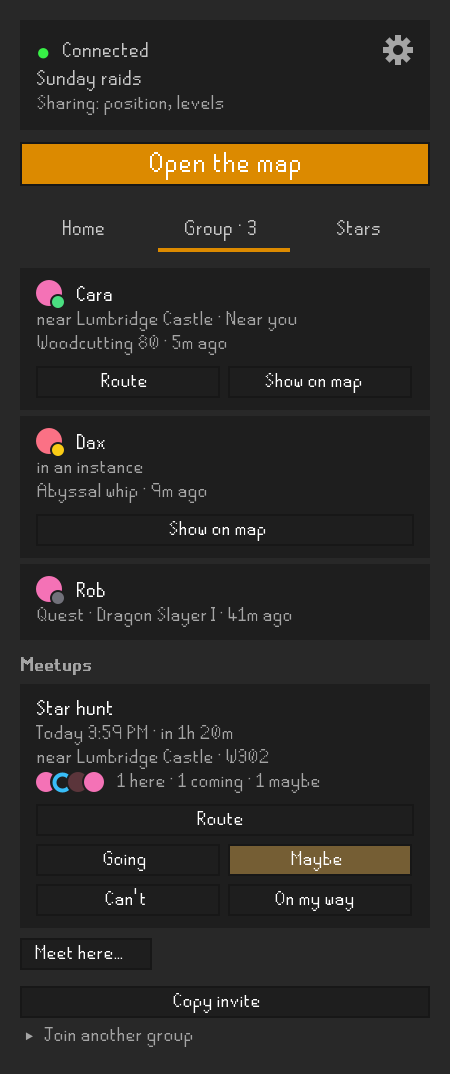
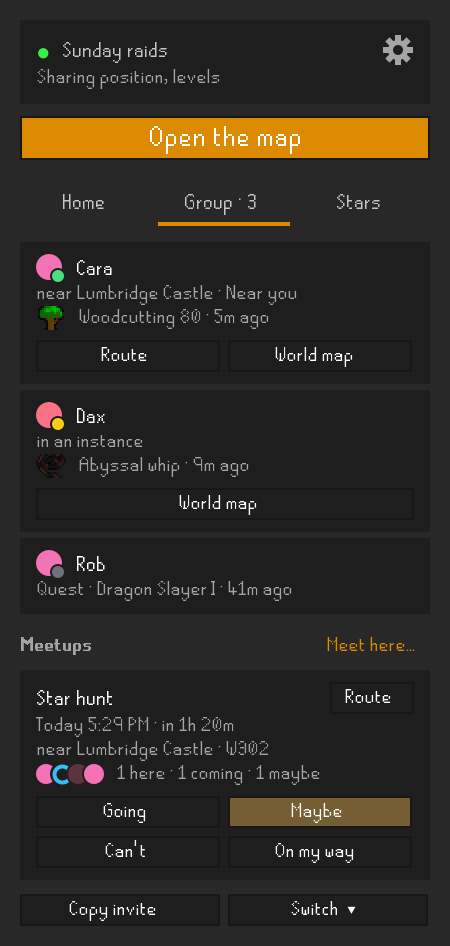
Draw a friend's news with the picture it names
A friend's news line said "Woodcutting 80" or "Abyssal whip" in grey words alone, while the
website's friend rows draw the skill's icon or the item's sprite beside the same words. The map
already sends both: a level names its skill, and a drop or reward the game identified names its
item. The plugin read the skill and dropped the item.

It now keeps the item's id and draws the item's sprite from ItemManager, or the skill's small icon
from SkillIconManager, at 16px beside the line. A quest or a diary names neither and stays words.
Nothing new is sent, and nothing is loaded from the map's server.

The wire contract test held a list's fields as set when any element set them, but only one level
down: a friend's news was judged by the first friend's alone, whose level has no item. It now
applies the same rule at every depth, which is what its own docblock promised.

diff --git a/src/main/java/com/pbolduc/mapcompanion/GroupPanel.java b/src/main/java/com/pbolduc/mapcompanion/GroupPanel.java
@@ -92,12 +92,15 @@ final class GroupPanel extends JPanel
 	private static final Color CHOSEN = new Color(117, 94, 52);
 	/** A friend's button for the game's own world map; "Show on world map" does not fit beside Route. */
 	static final String WORLD_MAP = "World map";
+	/** A news line's picture: the game's 16px skill icons, and an item's sprite shrunk to match. */
+	private static final int NEWS_PICTURE = 16;
 
 	private final transient DestinationState destinations;
 	private final transient GroupState group;
 	private final transient RoutePress press;
 	private final transient MeetupClient meetups;
 	private final transient MapCompanionConfig config;
+	private final transient GameSprites sprites;
 
 	private final JPanel friends = MapCompanionPanel.column(ColorScheme.DARK_GRAY_COLOR);
 	private final JLabel meetupsHead = MapCompanionPanel.left(new JLabel("Meetups"));
@@ -119,13 +122,14 @@ final class GroupPanel extends JPanel
 	private boolean ready;
 
 	GroupPanel(DestinationState destinations, GroupState group, RoutePress press, MeetupClient meetups,
-		MapCompanionConfig config)
+		MapCompanionConfig config, GameSprites sprites)
 	{
 		this.destinations = destinations;
 		this.group = group;
 		this.press = press;
 		this.meetups = meetups;
 		this.config = config;
+		this.sprites = sprites;
 		setLayout(new javax.swing.BoxLayout(this, javax.swing.BoxLayout.Y_AXIS));
 		setBackground(ColorScheme.DARK_GRAY_COLOR);
 		MapCompanionPanel.left(this);
@@ -394,7 +398,23 @@ final class GroupPanel extends JPanel
 		if (row.news != null)
 		{
 			JLabel news = label(11f, ColorScheme.LIGHT_GRAY_COLOR);
-			MapCompanionPanel.setWrapped(news, row.news.title + " · " + ago(now - row.news.atMs), WIDTH);
+			news.setName("group.news." + row.id);
+			/*
+			 * The news's own picture, as the website's friend rows draw it: the item a drop or reward
+			 * names, else the skill a level names. A quest or a diary has neither and stays words.
+			 */
+			boolean pictured = row.news.itemId != null || row.news.skill != null;
+			MapCompanionPanel.setWrapped(news, row.news.title + " · " + ago(now - row.news.atMs),
+				pictured ? WIDTH - NEWS_PICTURE - 5 : WIDTH);
+			news.setIconTextGap(5);
+			if (row.news.itemId != null)
+			{
+				sprites.item(news, row.news.itemId, NEWS_PICTURE);
+			}
+			else if (row.news.skill != null)
+			{
+				sprites.skill(news, row.news.skill, NEWS_PICTURE);
+			}
 			card.add(MapCompanionPanel.left(news));
 		}
 		boolean positioned = row.routable || row.near != null;

diff --git a/src/test/java/com/pbolduc/mapcompanion/WireContractTest.java b/src/test/java/com/pbolduc/mapcompanion/WireContractTest.java
@@ -127,7 +127,9 @@ public class WireContractTest
 			assertEquals(Boolean.TRUE, cara.nearYou);
 			assertTrue(cara.routable);
 			assertEquals("Woodcutting 80", cara.news.title);
+			assertEquals("Woodcutting", cara.news.skill);
 			assertEquals("Abyssal whip", directive.roster.get(1).news.title);
+			assertEquals("a drop names its item, whose sprite the news line draws", Integer.valueOf(4151), directive.roster.get(1).news.itemId);
 			assertEquals("a friend who shares no position has no world and no landmark", null, directive.roster.get(2).near);
 
 			assertEquals(1, directive.events.size());
@@ -333,7 +335,9 @@ public class WireContractTest
 	/**
 	 * Every public instance field of this plugin's own classes is non-null, walking into nested
 	 * objects, lists and maps. For a list of one class, a field counts as set when any element
-	 * sets it — which is how the two kinds of milestone share one class.
+	 * sets it — which is how the two kinds of milestone share one class — and that holds at every
+	 * depth: a friend's news is a level for one friend and a drop for the next, so its skill and its
+	 * item are each vouched for by whichever friend's news has one.
 	 */
 	private static void assertEveryFieldSet(String path, Object value)
 	{
@@ -375,21 +379,30 @@ public class WireContractTest
 			}
 			for (Field field : publicFields(first.getClass()))
 			{
-				boolean setSomewhere = false;
+				List<String> unsetInEvery = null;
 				for (Object item : items)
 				{
 					if (read(field, item) != null)
 					{
-						setSomewhere = true;
 						List<String> nested = new ArrayList<>();
 						collectUnset(path + "[]." + field.getName(), read(field, item), nested);
-						missing.addAll(nested);
-						break;
+						if (unsetInEvery == null)
+						{
+							unsetInEvery = nested;
+						}
+						else
+						{
+							unsetInEvery.retainAll(nested);
+						}
 					}
 				}
-				if (!setSomewhere)
+				if (unsetInEvery == null)
 				{
 					missing.add(path + "[]." + field.getName());
+				}
+				else
+				{
+					missing.addAll(unsetInEvery);
 				}
 			}
 			return;

diff --git a/src/test/java/com/pbolduc/mapcompanion/GroupPanelTest.java b/src/test/java/com/pbolduc/mapcompanion/GroupPanelTest.java
@@ -110,7 +110,40 @@ public class GroupPanelTest
 			});
 		MeetupClient meetups = new MeetupClient(http("{\"eventId\":\"star-hunt\",\"answer\":\"going\"}"), new Gson(),
 			MeetupClientTest.game(false), now(), pairing, identity, destinations, group, link -> { });
-		return new GroupPanel(destinations, group, press, meetups, config);
+		return new GroupPanel(destinations, group, press, meetups, config, pictures);
+	}
+
+	/** What the panel asked the game's sprites for, by the label it asked for. */
+	private final List<String> drawn = new CopyOnWriteArrayList<>();
+	private final GameSprites pictures = new GameSprites(null, null, null)
+	{
+		@Override
+		void item(javax.swing.JLabel label, int itemId, int box)
+		{
+			drawn.add(label.getName() + " item " + itemId);
+		}
+
+		@Override
+		void skill(javax.swing.JLabel label, String name, int box)
+		{
+			drawn.add(label.getName() + " skill " + name);
+		}
+	};
+
+	/**
+	 * A friend's news carries its own picture, as the website's friend rows do: the item a drop
+	 * names, the skill a level names, and nothing for a quest, which has neither.
+	 */
+	@Test
+	public void aFriendsNewsAsksForTheItemOrTheSkillItNames() throws Exception
+	{
+		AtomicReference<GroupPanel> panel = new AtomicReference<>();
+		SwingUtilities.invokeAndWait(() -> panel.set(panel()));
+		social();
+		SwingUtilities.invokeAndWait(() -> panel.get().refresh(true));
+		assertTrue(drawn.toString(), drawn.contains("group.news.cara skill Woodcutting"));
+		assertTrue(drawn.toString(), drawn.contains("group.news.dax item 4151"));
+		assertFalse(drawn.toString(), drawn.stream().anyMatch(d -> d.startsWith("group.news.rob")));
 	}
 
 	private void social() throws Exception

diff --git a/src/main/java/com/pbolduc/mapcompanion/GameSprites.java b/src/main/java/com/pbolduc/mapcompanion/GameSprites.java
@@ -28,12 +28,15 @@ package com.pbolduc.mapcompanion;
 import com.google.inject.Inject;
 import com.google.inject.Singleton;
 import java.awt.image.BufferedImage;
+import java.util.Locale;
 import java.util.function.Consumer;
 import javax.annotation.Nullable;
 import javax.swing.ImageIcon;
 import javax.swing.JLabel;
 import javax.swing.SwingUtilities;
+import net.runelite.api.Skill;
 import net.runelite.client.game.ItemManager;
+import net.runelite.client.game.SkillIconManager;
 import net.runelite.client.game.SpriteManager;
 import net.runelite.client.util.AsyncBufferedImage;
 import net.runelite.client.util.ImageUtil;
@@ -58,12 +61,37 @@ class GameSprites
 	private final ItemManager items;
 	@Nullable
 	private final SpriteManager sprites;
+	@Nullable
+	private final SkillIconManager skills;
 
 	@Inject
-	GameSprites(@Nullable ItemManager items, @Nullable SpriteManager sprites)
+	GameSprites(@Nullable ItemManager items, @Nullable SpriteManager sprites, @Nullable SkillIconManager skills)
 	{
 		this.items = items;
 		this.sprites = sprites;
+		this.skills = skills;
+	}
+
+	/**
+	 * A skill's small icon, the one the game draws beside a level, by the skill's name as the map
+	 * words it ("Woodcutting"). A name that is no skill gets no picture.
+	 */
+	void skill(JLabel label, String name, int box)
+	{
+		if (skills == null || name == null)
+		{
+			return;
+		}
+		Skill skill;
+		try
+		{
+			skill = Skill.valueOf(name.trim().toUpperCase(Locale.ROOT));
+		}
+		catch (IllegalArgumentException notASkill)
+		{
+			return;
+		}
+		show(label, skills.getSkillImage(skill, true), box);
 	}
 
 	/** An item's sprite, shrunk to fit {@code box} square when it is larger, on {@code label}. */

diff --git a/docs/review-evidence/sidebar-polish-2026-10-29/Sprites.java b/docs/review-evidence/sidebar-polish-2026-10-29/Sprites.java
@@ -37,7 +37,7 @@ final class Sprites
 	static void bind(Binder binder)
 	{
 		String root = System.getenv("OSRS_MAP_PUBLIC");
-		binder.bind(GameSprites.class).toInstance(new GameSprites(null, null)
+		binder.bind(GameSprites.class).toInstance(new GameSprites(null, null, null)
 		{
 			@Override
 			void item(JLabel label, int itemId, int box)
@@ -61,6 +61,12 @@ final class Sprites
 				/* The combat tab's crossed swords is the one sprite the website keeps under a name of its own. */
 				show(label, read(root, spriteId == net.runelite.api.gameval.SpriteID.SideIcons.COMBAT
 					? "osrs-icons/1x/skill-combat.png" : "osrs-icons/cache/" + spriteId + ".png"), box);
+			}
+
+			@Override
+			void skill(JLabel label, String name, int box)
+			{
+				show(label, read(root, "osrs-icons/1x/skill-" + name.toLowerCase() + ".png"), box);
 			}
 		});
 	}

diff --git a/src/main/java/com/pbolduc/mapcompanion/MapCompanionPanel.java b/src/main/java/com/pbolduc/mapcompanion/MapCompanionPanel.java
@@ -359,7 +359,7 @@ public class MapCompanionPanel extends PluginPanel
 		this.routePress = routePress;
 		this.clueReader = clueReader;
 		this.searchPanel = new SearchPanel(searchClient, routePress, sprites);
-		this.groupPanel = new GroupPanel(destinationState, groupState, routePress, meetupClient, config);
+		this.groupPanel = new GroupPanel(destinationState, groupState, routePress, meetupClient, config, sprites);
 		this.routeSteps = new RouteStepsView(way ->
 		{
 			destinationRoute.choose(way);

diff --git a/src/main/java/com/pbolduc/mapcompanion/RelayResponse.java b/src/main/java/com/pbolduc/mapcompanion/RelayResponse.java
@@ -131,7 +131,10 @@ public class RelayResponse
 		public String kind;
 		public String title;
 		public long atMs;
+		/** For a level, the skill's name, whose icon the news line draws. */
 		public String skill;
+		/** For a drop or a reward the game identified, the item, whose sprite the news line draws. */
+		public Integer itemId;
 	}
 
 	/** A meetup as the group's card lists it. */

diff --git a/src/main/java/com/pbolduc/mapcompanion/SocialWire.java b/src/main/java/com/pbolduc/mapcompanion/SocialWire.java
@@ -192,6 +192,7 @@ final class SocialWire
 				news.title = title;
 				news.atMs = row.news.atMs;
 				news.skill = RouteWire.text(row.news.skill, 20);
+				news.itemId = row.news.itemId != null && row.news.itemId > 0 ? row.news.itemId : null;
 				clean.news = news;
 			}
 		}
